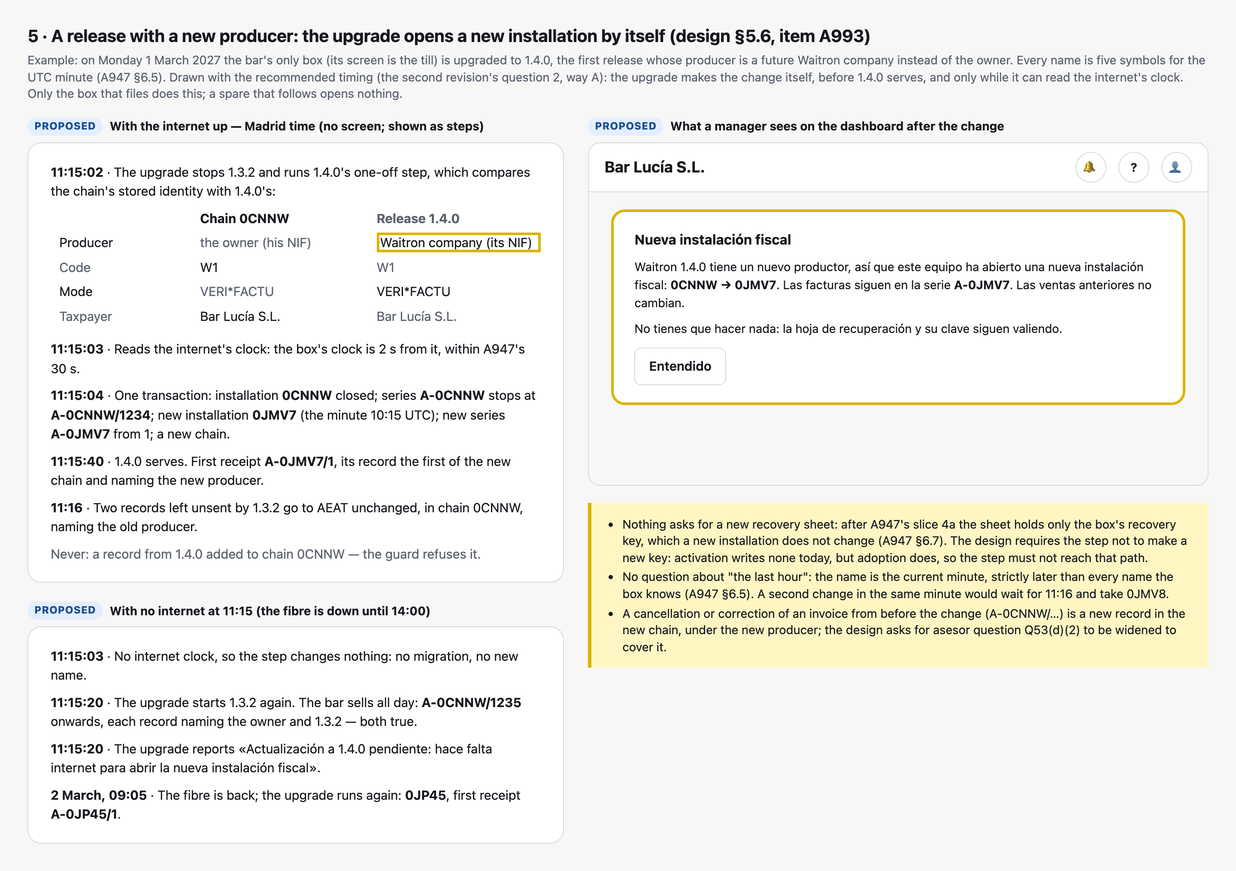
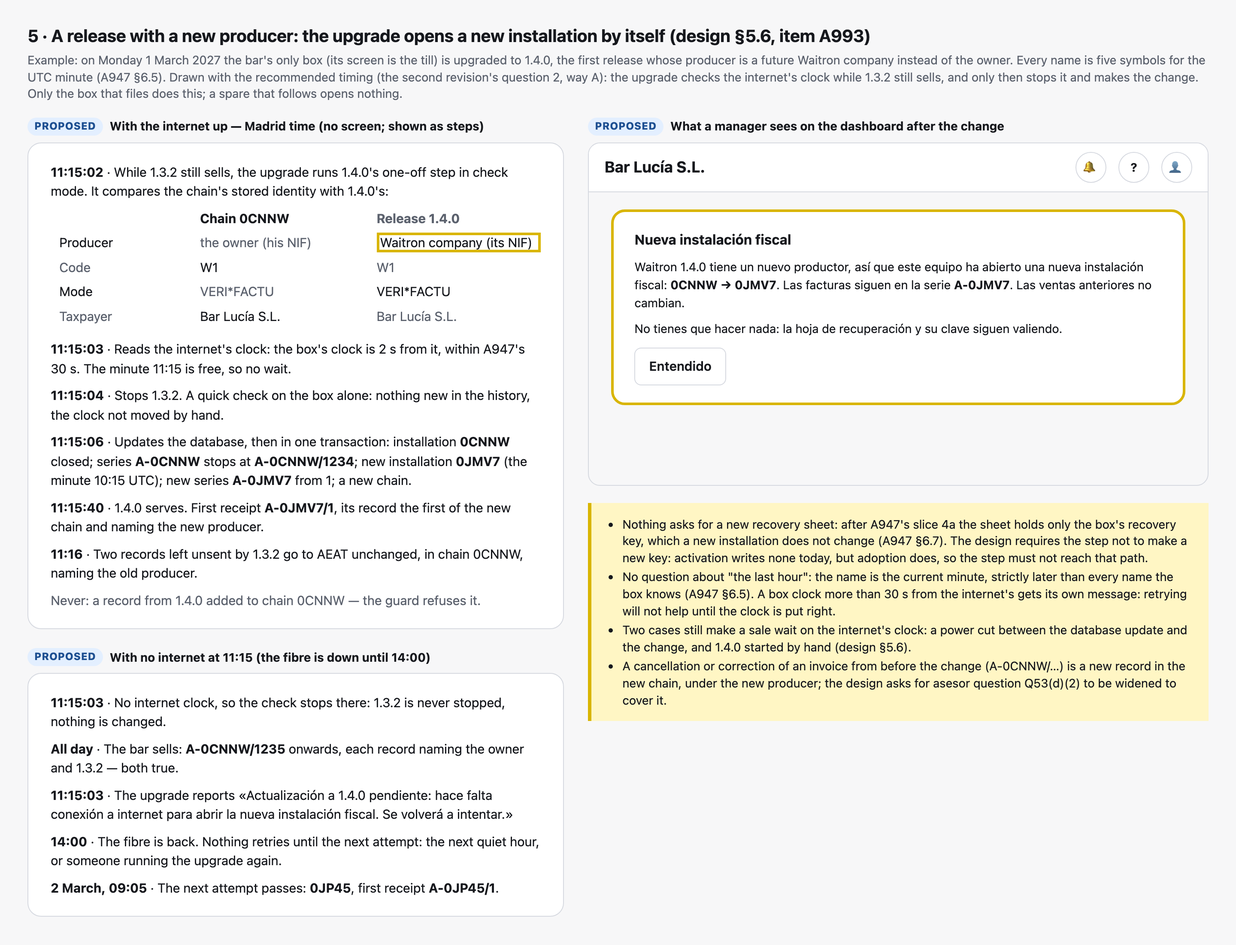
docs: A940 second revision — fold in the fresh-context review
The recommended way for A993's offline start now checks the internet's clock, and waits out
A947's short wait, while the old release is still selling. Only when that passes does the upgrade
stop the old release, check again on the box alone, update the database and make the change. So a
failed check never stops the venue selling.

Corrected claims: the database update and the change cannot share one transaction on today's code
(applyMigrations commits each set itself), so a power cut between them is named as a second case
where a sale waits on the internet, with a test case for it. Putting the old release back, and
running the step without the image's start-up command, are stated as new work. The change itself
can now wait until the next attempt, which departs from the owner's "at most the next minute", and
that is said plainly.

Each refusal gets its own message (a wrong box clock says retrying will not help). New test cases:
a fixture with an unapplied migration so the proof by deletion can fail, the quick re-check, and a
restore of an old-producer backup. The first revision's question 1 is marked superseded. The A993
backlog entry is reworded, picture 5 is redrawn for the new order, and B3's line pointers into the
A940 design are updated.

diff --git a/docs/superpowers/specs/2026-10-21-a940-declaracion-responsable-design.md b/docs/superpowers/specs/2026-10-21-a940-declaracion-responsable-design.md
@@ -34,13 +34,19 @@ for the automatic identity change (§5.6).
 >   venue whose till is the box's own screen (the USB installer's default, B3), with no internet,
 >   the first revision's design would sell nothing until a phone opened a page: something outside
 >   the venue blocking a sale, which CLAUDE.md §5 forbids. This revision weighs four ways out, each
->   with a worked example, and recommends **A: the upgrade makes the change itself, before the new
->   release serves, and only while it can read the internet's clock; when it cannot, it changes
->   nothing and the old release goes on selling under the old identity until a later attempt
->   can.** A release reaches a box only by download (checked in §5.6), so the internet is normally
->   there at that moment. The first revision's "a manager confirms the clock" path is gone: A947
->   allows no confirmation. One case still waits on an outside clock, disclosed in §5.6: a new
->   release started some other way than through the upgrade.
+>   with a worked example, and recommends **A: the upgrade checks the internet's clock, and waits
+>   out A947's short wait, while the old release is still selling; only when that passes does it
+>   stop the old release, check again on the box alone, migrate and make the change. When the check
+>   cannot pass, the old release is never stopped and goes on selling under the old identity until
+>   a later attempt.** A release reaches a box only by download (checked in §5.6), so the internet is
+>   normally there at that moment. The change itself can then wait until the next attempt — hours,
+>   or the next morning — beyond the owner's "at most the next minute"; only the sale is protected.
+>   The first revision's "a manager confirms the clock" path is gone: A947 allows no confirmation.
+>   Two cases still make a sale wait on the internet's clock, disclosed in §5.6: a power cut or
+>   crash between the migration and the change (the two cannot share one transaction on today's
+>   code), and a new release started some other way than through the upgrade. (Corrected the same
+>   day after a fresh-context review: the first draft of this revision stopped the old release
+>   before the clock check and claimed one transaction for the migration and the change.)
 > - **§5.4** (the runbook's first line), **§8** (cases for the upgrade's step), **§10** (slice 1b
 >   needs A947's slice 4a and carries the upgrade's step), **§11** and **§12** follow.
 > - **Picture 5 redrawn**: five-symbol names, the upgrade reading the internet's clock, no print
@@ -743,8 +749,9 @@ holds every installation code its venue has used, switches to a spare included (
 the box can read"); so the extra wait A947 §6.7 adds for a first setup or a restore, which cannot
 see every earlier name, does not apply. Normally the box takes the current minute. By A947's rules
 3 and 4 it waits, at most 150 seconds, when a code it knows is a little later than its clock, and
-refuses when one is further ahead; under the recommended timing below, the old release goes on
-selling meanwhile. The installation number must still differ from every earlier installation of
+refuses when one is further ahead. The 150 seconds is beyond the owner's "at most for the next
+minute", as A947 discloses for its own switches; under the recommended timing below the wait runs
+while the old release is still selling. The installation number must still differ from every earlier installation of
 the taxpayer, of any producer: «Deberá distinguirlo de otros posibles SIF utilizados para realizar
 la facturación del obligado a expedir facturas … incluso aunque en dichas instalaciones se emplee
 el mismo SIF de un productor» (Orden, annex block 2.6, `NumeroInstalacion`, read by eye).
@@ -768,9 +775,12 @@ a sale, which CLAUDE.md §5 forbids ("Nothing EXTERNAL may block a sale").
 *What was checked for this revision.*
 
 - **A release reaches a box only by download.** Today `waitron.sh install` fetches the box's files
-  and pulls or builds its images — each step stopping the script when the network fails — before
-  `docker compose up` starts anything (`deploy/waitron.sh:607-630`; the pull and its failure at
-  `:329-330`); a failed pull leaves the running containers as they were, since nothing has been stopped
+  and pulls or builds its images before `docker compose up` starts anything
+  (`deploy/waitron.sh:607-630`). The box-file fetch and the image pull stop the script when the
+  network fails (the script runs under `set -euo pipefail`, `:13`; the pull's failure at
+  `:329-330`); two earlier steps do not — the script's own refresh carries on with the running copy,
+  and the print agent's AppArmor step falls back to Docker's default
+  (`scripts/waitron-sh.test.mjs:714`, `:857`); a failed pull leaves the running containers as they were, since nothing has been stopped
   yet, though the box's files may already be the new ones (read, not run). `grep -n 'docker load' deploy/waitron.sh` finds no way to install an image from
   a file. A release will pull its published image by its tag (§5.5). B3's stick fetches the newest
   release over the network — "every install now has the internet, and so network time" (B3 §5.4)
@@ -800,30 +810,84 @@ at 11:15 Madrid on Monday 1 March 2027 (10:15 UTC; Madrid is one hour ahead of U
 while the fibre is down until 14:00. With the internet up, all four do the same: close `0CNNW`
 (last receipt `A-0CNNW/1234`), take `0JMV7`, first receipt `A-0JMV7/1`.
 
-- **A — recommended: the upgrade makes the change, only while it can read the internet's clock;
-  until then the old release goes on selling.** The upgrade stops the app, as it must anyway, and
-  runs a one-off command from the new image — beside the image's existing commands such as
-  `waitron-restore` and `waitron-rejoin` (`apps/server/package.json:8-14`) — before the new release
-  serves. The command first compares the chain's stored identity with the new release's, reading
-  only. If they match, it does nothing. If they differ, it reads the internet's clock and applies
-  A947 §6.5's clock check and minute rules **before it changes anything in the database,
-  migrations included**: once the new release has migrated the database, the old one refuses to
-  start on it (`assertNotAhead`, `apps/server/src/node-entry.ts:245`, CLAUDE.md §3). With a usable
-  reading it migrates and makes the change in one transaction, and the upgrade starts the new
-  release. Without one — no internet, a box clock more than 30 seconds out, or A947's rule 4
-  refusing — it exits having changed nothing; the upgrade starts the old release again from its own
-  image, still on the box under its own tag (§5.5); and the upgrade reports «Actualización a 1.4.0
-  pendiente: hace falta internet para abrir la nueva instalación fiscal» — today `waitron.sh
-  install` prints it and stops with an error, and A950 reports it wherever it reports a failed
-  upgrade (one of its open questions, "Where the failure is reported"). The next attempt —
-  the person running `waitron.sh install` again, or A950's next quiet hour — tries again.
-  *Example:* at 11:15 the command finds no internet; 1.3.2 starts again and the bar sells all day
-  on `A-0CNNW/1235` onwards, every record naming the owner and version 1.3.2, both true. At the
-  next morning's attempt, 09:05 Madrid on 2 March, the fibre is back: `0JP45`, first receipt
-  `A-0JP45/1`. *Cost:* an identity-changing release can reach a box late, and until it does the box
-  runs the old release, which its own declaration covers. I found nothing in the sources this
-  design quotes that sets a date by which a venue must take a new release. The guard is
-  unchanged. One step in `waitron.sh install` now, and the same step in A950's updater.
+- **A — recommended: the upgrade makes the change, and only while it can read the internet's clock;
+  until then the old release goes on selling.** The order is new work in slice 1b, in `waitron.sh
+  install`, and the same in A950's updater:
+  1. **While the old release still serves**, once the new image is on the box, the upgrade runs the
+     new image's one-off step in a *check* mode. It is run with the image's entrypoint overridden:
+     the image's entrypoint is `node /app/node-entry.js`, and a command that does not override it
+     has its arguments added to that one, which refuses them (`deploy/Dockerfile:283-286`; the same
+     point is pinned for `waitron.sh`'s own reads at `scripts/waitron-sh.test.mjs:1243-1257`). It
+     opens the venue database without taking it from the running server, reading only (the
+     `exclusive: false` way CLAUDE.md §3 gives a tool that runs beside the server), and compares the
+     chain's stored identity with the new release's. If they match, the upgrade carries on as an
+     ordinary one. If they differ, it reads the internet's clock (one reading takes at most 5
+     seconds, `packages/fiscal-verifactu/src/hour-clock-internet.ts:62-67`), applies A947 §6.5's
+     clock check, works out the earliest minute A947's rules 1–4 allow, and waits for it — rule 3's
+     wait, at most 150 seconds — all while the old release sells. If it cannot pass (the three
+     refusals below), it stops here, and the old release was never stopped.
+  2. **The upgrade stops the old release.**
+  3. **A quick check again, on the box alone**, with the venue lock held: the history is read again,
+     and the box's clock must have moved as the host's steady clock (the one that only counts
+     seconds since start-up and cannot be set) has moved since step 1's reading, so a clock set by
+     hand in between is caught. If either fails, nothing has been changed yet: the upgrade starts
+     the old release again and reports it. No outside reading is taken here, so while the app is
+     stopped nothing waits on anything outside the box.
+  4. **Migrate, then make the change.** These are two commits, not one transaction:
+     `applyMigrations` opens its own store, runs each migration set in its own drizzle transaction,
+     commits it and closes (`packages/migrations/src/apply.ts:43-93`). The change is one transaction
+     after them, under the step's own lock.
+  5. **The upgrade starts the new release.**
+
+  *What the stop costs.* Steps 2 to 5 are the stop every upgrade already makes (stop, migrate,
+  start), plus a check on the box and one transaction — reasoned from the order, not measured. The
+  script then waits up to 36 tries 5 seconds apart for the new release to report healthy
+  (`deploy/waitron.sh:574-576`); that is how long it is willing to wait, not how long a start takes.
+
+  *The three refusals, each with its own words in the upgrade's report.*
+  - No internet: «Actualización a 1.4.0 pendiente: hace falta conexión a internet para abrir la
+    nueva instalación fiscal. Se volverá a intentar.»
+  - The box's clock more than 30 seconds from the internet's: «Actualización a 1.4.0 pendiente: la
+    hora de este equipo difiere ‹N› segundos de la de internet. Hay que corregir la hora del equipo;
+    volver a intentarlo no sirve hasta entonces.» A box that is online normally keeps its own clock
+    right (A798-B, cited in A947 §6.5); a way to put it right with no internet and no terminal is
+    A947's open point (§13), not solved here.
+  - A947's rule 4, a code the box knows more than 150 seconds ahead of its clock: «Actualización a
+    1.4.0 pendiente: ya se usó un minuto posterior a la hora de este equipo. Se podrá a partir de
+    las ‹HH:MM›.» — A947's refusal, which names the time from which it will be allowed.
+
+  *The one gap left, disclosed.* A power cut or crash in step 4, after the migration has committed
+  and before the change has. The old release then refuses the migrated database (`assertNotAhead`,
+  `apps/server/src/node-entry.ts:245`), and the new release starts with the change unmade — the
+  start's fallback below, where **a sale does wait on the internet's clock** until one can be read.
+  The window is the migration plus one transaction: seconds, by reasoning, not measured. A950's
+  snapshot, put back before the first order, would close it; today's script takes no snapshot
+  (`docs/backlog/box.md`, "It takes no backup first"). One transaction for both was weighed and not
+  taken: it needs a way to run every migration set inside the change's transaction, but
+  `applyMigrations` removes the change feed and installs the append-only triggers around the sets,
+  and drizzle's migrator runs each set in a transaction of its own (`apply.ts:59-93`, and the comment
+  at `:80-84`). That is a change
+  to how every set migrates, larger than this slice, and not shown to be sound for every set.
+
+  *Putting the old release back is new work too.* Today `waitron.sh install` records nothing about
+  what it replaces: `refresh_self` may already have replaced the script itself
+  (`deploy/waitron.sh:75-139`); the box files are overwritten (`:199-205`); for `main` the same tag
+  is pulled again, so the old image loses its tag (`:326-330`); and for a branch `.env` is rewritten
+  before anything starts (`:352-353`). So slice 1b records the previous image and box files before
+  it overwrites them, and puts them back when the step changes nothing.
+
+  *Example:* at 11:15 the check finds no internet; 1.3.2 was never stopped and the bar sells all
+  day on `A-0CNNW/1235` onwards, every record naming the owner and version 1.3.2, both true. At 14:00
+  the fibre is back, but nothing retries until the next attempt — the next quiet hour, or someone
+  running the upgrade again; say 09:05 Madrid on 2 March: `0JP45`, first receipt `A-0JP45/1`.
+
+  *Cost.* The change itself can wait until the next attempt — hours, or the next morning — where the
+  owner's answer of 22:25 says A993's change waits "at most for the next minute"; what is protected
+  is the sale, not the change's timing. Rule 3's wait of up to 150 seconds is a departure from the
+  same answer, as A947 discloses for a switch (its second revision note); here it runs while the old
+  release sells. Until the change is made the box runs the old release, which its own declaration
+  covers; I found nothing in the sources this design quotes that sets a date by which a venue must
+  take a new release. The guard is unchanged.
 - **B — the new release sells on the old installation, under the old identity, until it can read a
   second clock.** The guard would have to let 1.4.0 add records to a chain opened under the old
   producer, and those records would name the owner as producer of version 1.4.0, which he has not
@@ -855,15 +919,15 @@ removes A's delay, but adds a reservation and a rule that cancels it when a late
 between (a switch to the spare, say) — more fiscal code, to save a delay that costs no sale.
 
 **Under A, what a start does.** Every start still compares the identities (above). After an
-upgrade through its step they match. If they differ — only when the new release was started some
-other way, for instance `docker compose up` typed by hand — the start makes the change itself,
-under A947's rules, with the internet's clock, and **until then does not trade**; its recovery page
-says «Esta versión abre una nueva instalación fiscal y necesita la hora de internet: conecta el
-equipo a internet». Disclosed: on that path a sale does wait on something outside, as with §5.1's
-refusal of a test build; the upgrade's step is what keeps a venue off it. Whether that page should
-also take a phone's clock, as in C, is left open (§12). The first revision's decision that after a
-rule-4 refusal "the box keeps running without issuing invoices" is replaced: under A, the old
-release keeps selling.
+upgrade through its step they match. They differ in two cases: the new release was started some
+other way, for instance `docker compose up` typed by hand; or a power cut or crash came between the
+step's migration and its change (way A, "the one gap left"). Then the start makes the change
+itself, under A947's rules, with the internet's clock, and **until then does not trade**; its
+recovery page says «Esta versión abre una nueva instalación fiscal y necesita la hora de internet:
+conecta el equipo a internet». Disclosed: in both cases a sale does wait on something outside the
+box, as with §5.1's refusal of a test build. Whether that page should also take a phone's clock, as
+in C, is left open (§12). The first revision's decision that after a rule-4 refusal "the box keeps
+running without issuing invoices" is replaced: under A, the old release keeps selling.
 
 **Why no person has to approve it, when W41s asks one for a promotion.** W41s asks for a person
 where another machine may still hold the identity being replaced. A declared restore needs the
@@ -1045,16 +1109,32 @@ migration (slice 5).
   minute of the box's clock, the next record is the first of a new chain and the old chain's unsent
   record is still sent with its old producer; and a case under the same identity that checks that
   nothing is allocated and no clock is read.
-- **An upgrade that cannot read a clock changes nothing** (§5.6, way A): a case that runs the step
-  under a changed identity with the internet's clock unavailable, and checks that the database's
-  files and migration journal are as they were and that the old release then starts and records a
-  sale on its own chain. Proven by deletion: with the clock check moved after the migration, the
-  case must fail, because the old release then refuses the migrated database
-  (`provisioning.database_ahead`). The same case with a box clock 31 seconds out, ahead and behind,
-  changes nothing either.
+- **An upgrade that cannot read a clock changes nothing, and stops nothing** (§5.6, way A): a case
+  that runs the upgrade under a changed identity with the internet's clock unavailable, using a test
+  release that **carries a migration the database has not had** (without one, the proof below
+  cannot fail), and checks that the old release was never stopped and records a sale meanwhile, and
+  that the database's files and migration journal are as they were. Proven by deletion: with the
+  clock check moved after the migration, the case must fail, because the database is then migrated
+  and the old release refuses it (`provisioning.database_ahead`). The same case with a box clock 31
+  seconds out, ahead and behind, changes nothing either, and each refusal reports its own words.
+- **The quick check after the stop** (§5.6, way A, step 3): a case that sets the box's clock by
+  hand between the check and the stop, and one that adds a name to the history in between; each
+  must start the old release again with nothing changed.
+- **A crash between the migration and the change** (§5.6, way A, "the one gap left"): a case that
+  stops the step after the migration commits and before the change, then starts the new release
+  with no internet, and checks that it does not trade and the old chain gains nothing; and, with the
+  internet back, that the start makes the change and then trades.
 - **A start that finds the change not made does not trade without a second clock** (§5.6, "Under
-  A, what a start does"): a case that starts the new release under a changed identity with no
-  internet and checks that no sale is recorded and the old chain gains nothing.
+  A, what a start does"): a case that starts the new release directly under a changed identity with
+  no internet and checks that no sale is recorded and the old chain gains nothing.
+- **A restore of an old-producer backup onto a new release** (§5.6, "What each chain stores"): a
+  case that restores a backup whose chain was opened under the old producer onto a box running a
+  release with the new one, and checks that the restore's activation writes the new identity and
+  that the first start's identity step then does nothing. By my reading of
+  `apps/server/src/restore.ts:363-386`, the restore migrates its copy of the backup and runs its
+  fiscal activation on that copy, under the running release, before placing it
+  (`checkBeforePlacement`, which runs the restore's module operation,
+  `apps/server/src/recovery-module-operation.ts:132-134`); read, not run.
 
 ## 9. What is NOT a release
 
@@ -1073,7 +1153,7 @@ Each slice is one pull request.
 | Slice | What | Path |
 | --- | --- | --- |
 | 1 | `software-identity.ts`; the records carry the producer — the owner personally, his name and NIF, which he still has to supply — not the taxpayer; the name "Waitron"; the release's version; `TipoUsoPosibleSoloVerifactu` = S (unchanged), `TipoUsoPosibleMultiOT` = N (was S), `IndicadorMultiplesOT` = N (unchanged); the cancellation reader and the drain's grouping keep the taxpayer's name | FULL, **fiscal: the owner lands it** |
-| 1b | **A993**, the automatic identity change (§5.6): each chain stores its producer and mode; the upgrade's one-off step and every start compare; a difference opens a new installation under A947's five-symbol rules, only with a second clock (way A, if the owner chooses it); `waitron.sh install` runs the step and puts the old release back when it changes nothing; the guard; the dashboard notice | FULL, **fiscal: the owner lands it** |
+| 1b | **A993**, the automatic identity change (§5.6): each chain stores its producer and mode; the upgrade's one-off step and every start compare; a difference opens a new installation under A947's five-symbol rules, only with a second clock (way A, if the owner chooses it); `waitron.sh install` runs the step — checking the clock while the old release serves — records the previous image and box files, and puts the old release back when the step changes nothing; the guard; the dashboard notice | FULL, **fiscal: the owner lands it** |
 | 2 | The template, `functions.md`, the renderer, the "agree" and "headings" guards, `pnpm release prepare` and `tag`, and the release runbook | FULL |
 | 3 | `/legal/declaration` (HTML, PDF, plain text) in every mode and on the landing and recovery listeners; About Waitron on the dashboard, the till's More menu, the ⓘ corners and the setup wizard; guides in English and Spanish | LIGHT |
 | 4 | CI on a `v*` tag: the version and the rendered declaration in the image, the PDF and text on the GitHub Release; `waitron.sh install v<version>` pulls the published image; production refuses an unreleased build; the "never changes" guard | FULL (the box's start path) |
@@ -1117,8 +1197,10 @@ Asked one at a time through the campaign watcher; the original text is in the mo
 4. **Production boxes run releases only. Answered: A**, "Releases only." §5.1 stands.
 
 **The first revision's questions** (in `question.txt`): approve the revised design; and how the
-automatic identity change names its new installation — the second withdrawn on 2026-10-22, the
-owner having settled the name form at about 22:25 on 2026-10-21 (A947 §6.5).
+automatic identity change names its new installation. Both are superseded on 2026-10-22: the first
+by the second revision's question 1 (its example's hour codes and its new recovery sheet no longer
+hold), the second withdrawn, the owner having settled the name form at about 22:25 on 2026-10-21
+(A947 §6.5).
 
 **The second revision's questions** (in `question.txt`, asked one at a time): approve this
 revision; and, for A993, what happens when the change cannot read a second clock (§5.6, ways A to
@@ -1150,11 +1232,10 @@ D, A recommended).
   second revision moved them and updated B3's citations. B3 §4 also decides that the declaration's
   PDF does not go on the stick and hands §7.2's last sentence back to A940; that sentence is not
   changed by this revision.
-- **The upgrade's step (§5.6, way A), for the builder:** how `waitron.sh install` puts the old
-  release back (today it records a branch's image in `.env`, `deploy/waitron.sh:352-353`, and a
-  release's tag is slice 4's work, §5.5); how the one-off command reaches the fiscal module without
-  `apps/server` importing it (§5.3's composition rule); and that it reads the stored identity
-  without writing, so that nothing changes before the clock has passed.
+- **The upgrade's step (§5.6, way A), for the builder:** how the one-off command reaches the
+  fiscal module without `apps/server` importing it (§5.3's composition rule); how step 1's clock
+  reading and steady-clock reading reach step 3, which is a separate run of the command; and how
+  long after step 1 step 3 may still rely on it before step 1 must be run again.
 - **A950's rollback after the change.** If A950 puts back its snapshot after the step but before
   the first order, the restored database no longer records that the new code was spent. Nothing
   was filed under it (A950 files nothing before its check passes), and the next attempt takes a
@@ -1163,7 +1244,8 @@ D, A recommended).
   also take a phone's clock, which is new work (way C), and its exact wording.
 - **"No new sheet" rests on A947's slice 4a.** That slice takes the installation code off the
   recovery sheet and the restore form only if its committed test passes (A947 §6.7). If it does
-  not, the code stays on the sheet and the notice's reprint question comes back with it.
+  not, that goes back to the owner, whose "prove it" condition it is (A947 §12) — not straight to a
+  reprint.
 
 ## Provenance
 

diff --git a/docs/backlog.md b/docs/backlog.md
@@ -171,19 +171,22 @@ _Formerly A1 (with A1a–A1e, A231, A231d, A275 and W41s), and the old Track C's
   producer's NIF, so a new producer (the owner → a future Waitron company), a new code, or a move
   to another fiscal policy (the owner: one installation, one policy) makes a different system.
   Each chain stores the producer and compliance mode it was opened under (today `registro_sif`
-  stores neither, `packages/fiscal-verifactu/src/schema/sif.ts:20-22`); every start compares them
-  with the running release's and, on a difference, opens a new installation, series and chain in
+  stores neither, `packages/fiscal-verifactu/src/schema/sif.ts:20-22`); the upgrade's step and
+  every start compare them with the running release's and, on a difference, open a new installation, series and chain in
   one transaction, on the filing node only, through a new `identity-change` activation that only
-  that start step can authorise (CLAUDE.md §5's "does not mint an installation number" sentence is
-  amended in the same change); a guard, proven by deletion, refuses to add a record to a chain
+  the upgrade's step, or a start that finds the change not made, can authorise (A947's slice 4a
+  amends CLAUDE.md §5's "does not mint an installation number" sentence; A993 adds the one
+  allocation no person asks for); a guard, proven by deletion, refuses to add a record to a chain
   opened under another identity. Corrections of invoices issued before the change join the new
   chain; the design asks for asesor Q53(d)(2) to be widened to cover that. The name is A947's
   five-symbol UTC minute (A947 §6.5), so A947's slice 4a lands first; no new recovery sheet is
   asked for. Because A947 needs a second clock for every name and a start has nobody present, the
-  design recommends that the upgrade make the change before the new release serves, only while it
-  can read the internet's clock, and otherwise change nothing and start the old release again — the
-  owner's choice, A940's second-revision question 2. After A940's slice 1; before the first
-  production venue goes live. A move between fiscal modules stays a refused start until the first non-Veri\*Factu mode.
+  design recommends that the upgrade check the clock while the old release still serves, and make
+  the change only once that check passes — otherwise the old release never stops. A sale can still
+  wait on the internet after a crash between the migration and the change, or when the new release
+  is started by hand. The owner's choice, A940's second-revision question 2. After A940's slice 1;
+  before the first production venue goes live. A move between fiscal modules stays a refused start
+  until the first non-Veri\*Factu mode.
   [Design](superpowers/specs/2026-10-21-a940-declaracion-responsable-design.md#56-when-the-systems-identity-changes-a-new-installation-by-itself-a993)
 
 - **A696. Invoice issue dates and record offsets follow the process zone.**

diff --git a/docs/superpowers/specs/2026-10-21-b3-usb-installer-design.md b/docs/superpowers/specs/2026-10-21-b3-usb-installer-design.md
@@ -44,7 +44,7 @@ which makes B3 go-live work. Four other pieces of work are already waiting on wh
 - **A798, keep trading when a part fails** — "The box image keeps its clock synchronised, with no
   terminal … the image makes it standing" (`docs/backlog/box.md:366-373`).
 - **A940, the declaración responsable** — "B3's USB installer, when it is designed, copies the PDF
-  onto the stick beside the installer" (`docs/superpowers/specs/2026-10-21-a940-declaracion-responsable-design.md:1008-1009`).
+  onto the stick beside the installer" (`docs/superpowers/specs/2026-10-21-a940-declaracion-responsable-design.md:1072-1073`).
 
 And the owner's 2026-10-21 answer on A732 — no recovery desk: "But this isn't needed. You just
 reinstall the box and start again" (recorded in lane E's questions file, outside the repository).
@@ -162,7 +162,7 @@ The stick does not change with every release: it fetches the newest one (§5.4).
 The release's declaración responsable (A940 §7.1) is downloaded with the release and kept on the
 box, where Help → About shows it (A940's design), rather than on a stick that may be older than the
 release it installs. **My call**; A940 assumed the PDF goes on the stick
-(`docs/superpowers/specs/2026-10-21-a940-declaracion-responsable-design.md:1008-1009`), and §17
+(`docs/superpowers/specs/2026-10-21-a940-declaracion-responsable-design.md:1072-1073`), and §17
 hands that line back to A940.
 
 ## 5. What happens at the box
@@ -958,7 +958,7 @@ image, so slice 5 adds a check that the disk's package list and its notices matc
 
 **A note for A940.** Its draft names the third-party parts as "Node.js, SQLite, Litestream, Linux
 and Docker, as Q53 lists them", with the full list in `/app/third-party/`
-(`docs/superpowers/specs/2026-10-21-a940-declaracion-responsable-design.md:490-492`). Once the stick
+(`docs/superpowers/specs/2026-10-21-a940-declaracion-responsable-design.md:496-498`). Once the stick
 installs the operating system, Debian 13 is part of what Waitron supplies, and its notices live
 under `/usr/share/doc` on the box rather than in `/app/third-party/`. A940's list and pointer change
 with it.

diff --git a/docs/backlog/mockups/a940-declaracion-responsable/README.md b/docs/backlog/mockups/a940-declaracion-responsable/README.md
@@ -14,8 +14,9 @@ Revision 2026-10-21: pictures 1, 2 and 4 were redrawn with item d)'s new opening
 cloud, from asesor question Q53) and with the items labelled «1.a)» as the design's §4 labels them.
 
 Second revision 2026-10-22: picture 5 was redrawn for the owner's 22:25 answers — five-symbol minute names
-(`0CNNW` → `0JMV7`), the upgrade making the change only while it can read the internet's clock (with what
-happens when it cannot), and no request to print a new recovery sheet.
+(`0CNNW` → `0JMV7`), the upgrade checking the internet's clock while the old version still sells and only then
+making the change (with what happens when it cannot), and no request to print a new recovery sheet.
 
 `question.txt` holds the four owner questions, asked one at a time and all answered on 2026-10-21; then the
-first revision's two questions (the second withdrawn on 2026-10-22); then the second revision's two questions.
+first revision's two questions (both superseded on 2026-10-22: the first by the second revision's question 1,
+the second withdrawn); then the second revision's two questions.
